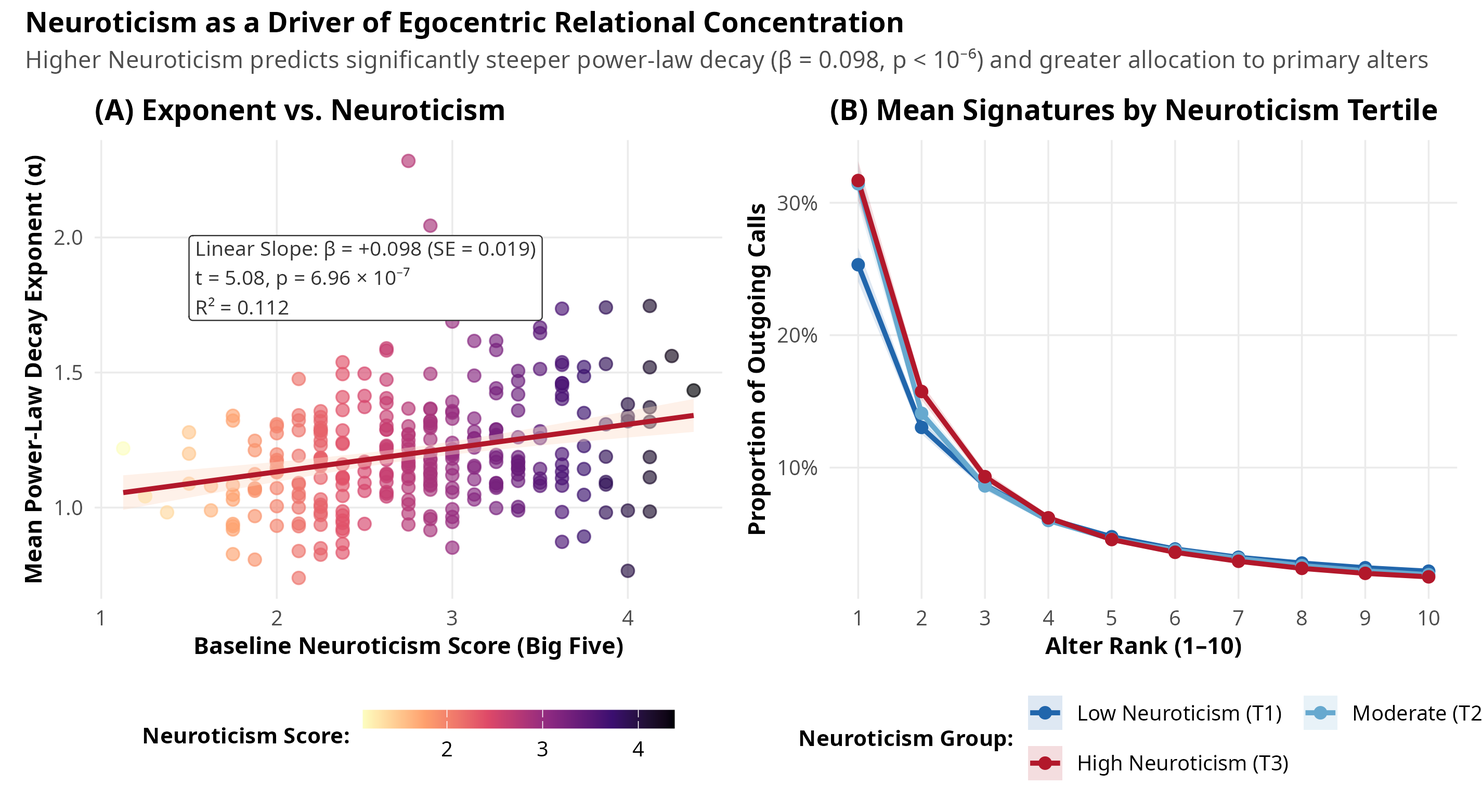
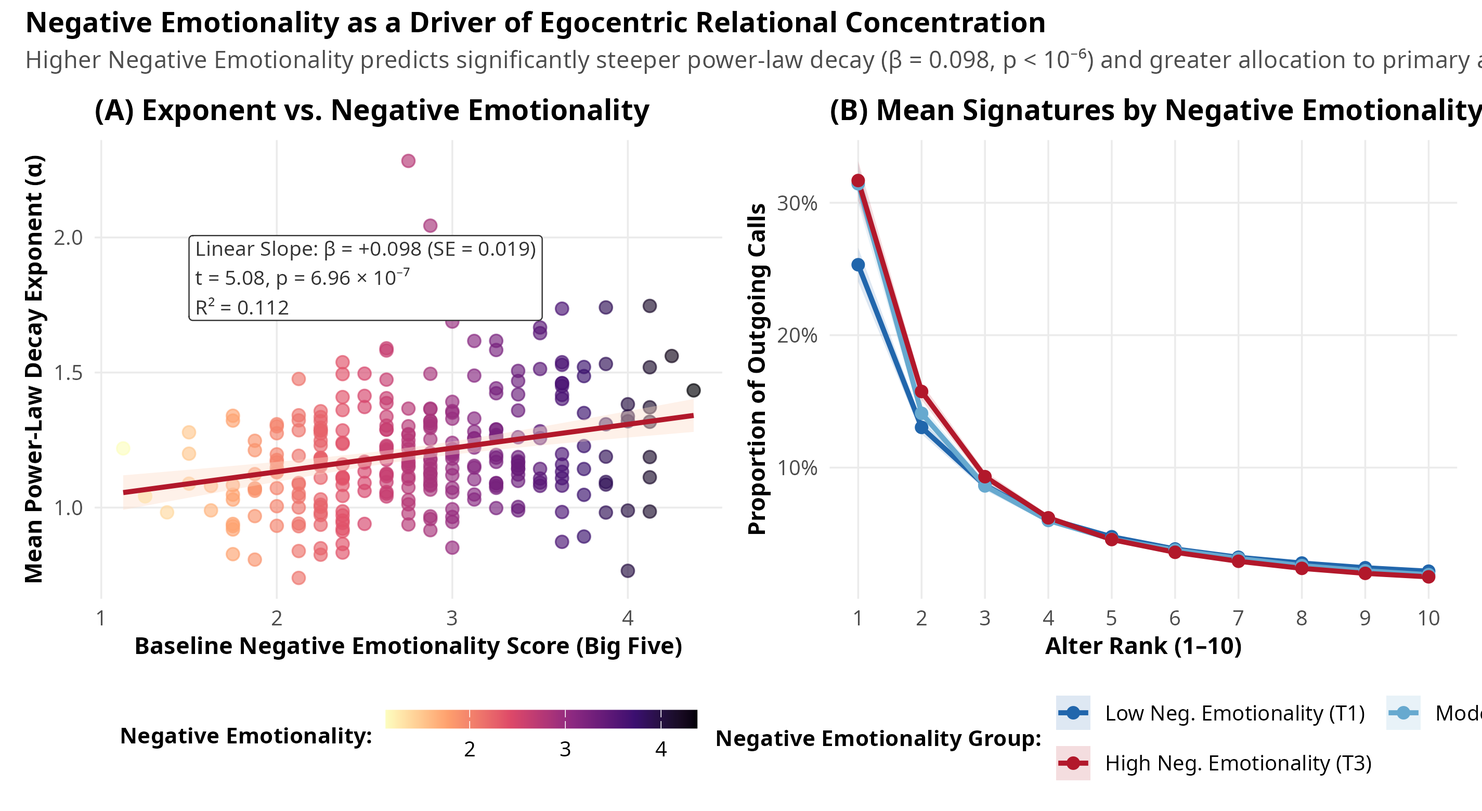
refactor: adopt Negative Emotionality and ego network terminology

diff --git a/manuscript.tex b/manuscript.tex
@@ -51,7 +51,7 @@
 \maketitle
 
 \begin{abstract}
-\noindent How do individuals allocate cognitive, temporal, and emotional bandwidth across personal networks? Using passive smartphone logs and eight waves of longitudinal sociocentric surveys from the NetHealth study ($N = 491$ egos, 498,237 calls), this paper examines the structure, temporal stability, and psychological foundations of social signatures---the ranked distribution of communication effort directed to alters within discrete observation windows. Signature persistence holds across multiple timescales, with intra-individual self-divergence consistently smaller than inter-individual reference divergence ($p < 10^{-12}$). Power-law models ($p(r) \sim r^{-\alpha}$, mean $R^2 = 0.935$) outperform exponential decay models, with decay exponents $\alpha$ stabilizing within six to eight months of continuous observation. Moving beyond call frequency tallies, linking communication ranks to sociometric surveys ($N = 13,174$ dyads) reveals that the steep drop in interaction effort tracks qualitative transitions from kinship-dominated instrumental and emotional support at primary ranks to peer companionship in outer bands. Furthermore, signature stability endures despite substantial semester alter turnover (averaging 80.1\%), showing that individuals slot new entrants into pre-existing relational positions rather than restructuring their overall allocation profile. Multilevel panel models indicate that alter turnover and volume shifts drive temporal variation in self-divergence, while egonet clustering exhibits negligible effect. Finally, personality inventories reveal that Neuroticism strongly predicts steeper, hyper-concentrated signatures ($\beta = 0.098, p < 10^{-6}$), indicating that emotional vulnerability fosters disproportionate reliance on core ties.
+\noindent How do individuals allocate cognitive, temporal, and emotional bandwidth across personal networks? Using passive smartphone logs and eight waves of longitudinal sociocentric surveys from the NetHealth study ($N = 491$ egos, 498,237 calls), this paper examines the structure, temporal stability, and psychological foundations of social signatures---the ranked distribution of communication effort directed to alters within discrete observation windows. Signature persistence holds across multiple timescales, with intra-individual self-divergence consistently smaller than inter-individual reference divergence ($p < 10^{-12}$). Power-law models ($p(r) \sim r^{-\alpha}$, mean $R^2 = 0.935$) outperform exponential decay models, with decay exponents $\alpha$ stabilizing within six to eight months of continuous observation. Moving beyond call frequency tallies, linking communication ranks to sociometric surveys ($N = 13,174$ dyads) reveals that the steep drop in interaction effort tracks qualitative transitions from kinship-dominated instrumental and emotional support at primary ranks to peer companionship in outer bands. Furthermore, signature stability endures despite substantial semester alter turnover (averaging 80.1\%), showing that individuals slot new entrants into pre-existing relational positions rather than restructuring their overall allocation profile. Multilevel panel models indicate that alter turnover and volume shifts drive temporal variation in self-divergence, while ego network clustering exhibits negligible effect. Finally, personality inventories reveal that Negative Emotionality strongly predicts steeper, hyper-concentrated signatures ($\beta = 0.098, p < 10^{-6}$), indicating that elevated negative emotionality fosters disproportionate reliance on core ties.
 \end{abstract}
 
 \vspace{1em}
@@ -155,18 +155,18 @@ First, prior literature encounters a \textit{persistent content black box}. Comm
 
 Second, the behavioral mechanism underlying signature stability requires direct empirical verification. While \citet{saramaeki2014persistence} and \citet{heydari2024dynamic} hypothesized that signature stability persists because individuals slot new alters into pre-existing relational positions, they lacked the alter-level tracking and longitudinal survey depth required to verify this mechanism. Specifically, does an individual's signature remain stable because their core ties (Rank 1 and Rank 2) never change, or does stability truly endure when an individual experiences complete turnover of their primary confidant? Leveraging continuous passive phone logs across eight academic semesters with an average semester alter turnover of 80.1\%, we explicitly separate transitions where an ego retains their primary alter from transitions where the primary alter is completely replaced. We show that even under complete turnover of the top confidant, signature divergence shifts only marginally (from 0.043 to 0.078), providing direct empirical confirmation of the slot-filling hypothesis.
 
-Third, the psychological foundations of signature curvature remain unmapped. Theoretical models of personal network evolution \citep{dunbar2018anatomy,iniguez2023universal,adel2026preferentiality} assume that individual differences in alter-preferentiality ($\beta$) and signature decay exponents ($\alpha$) reflect internal cognitive and affective dispositions. Yet commercial telecommunications providers have no psychometric data on their subscribers, and university sensor studies \citep{li2022evidence} did not model personality as a predictor of signature steepness. Beyond preliminary exploratory correlations \citep{centellegher2017personality}, no study has rigorously estimated how validated personality dimensions govern the curvature of social signatures. We link objective communication decay exponents ($\alpha_i$) to longitudinal psychometric batteries measuring the Big Five personality traits, CES-D depression, and UCLA loneliness scores. Through regression modeling, we show that Neuroticism strongly predicts steeper, hyper-concentrated signatures ($\beta = 0.098, p < 10^{-6}$), revealing that emotional instability drives disproportionate reliance on a narrow core of alters.
+Third, the psychological foundations of signature curvature remain unmapped. Theoretical models of personal network evolution \citep{dunbar2018anatomy,iniguez2023universal,adel2026preferentiality} assume that individual differences in alter-preferentiality ($\beta$) and signature decay exponents ($\alpha$) reflect internal cognitive and affective dispositions. Yet commercial telecommunications providers have no psychometric data on their subscribers, and university sensor studies \citep{li2022evidence} did not model personality as a predictor of signature steepness. Beyond preliminary exploratory correlations \citep{centellegher2017personality}, no study has rigorously estimated how validated personality dimensions govern the curvature of social signatures. We link objective communication decay exponents ($\alpha_i$) to longitudinal psychometric batteries measuring the Big Five personality traits, CES-D depression, and UCLA loneliness scores. Through regression modeling, we show that Negative Emotionality strongly predicts steeper, hyper-concentrated signatures ($\beta = 0.098, p < 10^{-6}$), revealing that heightened negative emotionality drives disproportionate reliance on a narrow core of alters.
 
 Fourth, the field lacks empirical guidance on multi-timescale hierarchies and parameter burn-in convergence. Prior empirical investigations evaluated social signatures at arbitrary, isolated temporal resolutions: \citet{li2022evidence} examined 1-month intervals, \citet{heydari2018multichannel} used 6-month windows, and \citet{saramaeki2014persistence} examined 9-month terms. However, no study has evaluated how signature stability behaves across a nested hierarchy of timescales within the same population. More crucially, prior literature offers no guidance on parameter burn-in: how long must an individual be continuously observed before their estimated signature decay parameter $\alpha$ converges to its true asymptotic value? We evaluate social signatures across eight temporal window schemes spanning calendar definitions (academic years, semesters, quarters, months) and rolling weekly intervals (3-week rolling, 2-week discrete, 1-week discrete). Furthermore, by tracking cumulative observation intervals from 2 to 24 months, we establish an empirical burn-in threshold showing that personal signature parameters stabilize within 6 to 8 months of continuous observation.
 
-Finally, egocentric signatures must be situated within their broader sociocentric structural embedding. Previous studies have modeled communication signatures in isolation from the structural connectivity of the surrounding network. Yet human communication is embedded within broader community structures, residence halls, and friendship groups \citep{li2018social}. How do alter turnover, egonet transitivity (clustering), and shifts in overall communication volume jointly govern signature stability over time? \textit{NetHealth} pairs continuous individual phone logs with 174,748 alter-alter structural ties connecting peers within each respondent's personal egocentric network across survey waves. We estimate multilevel linear mixed-effects models predicting signature self-divergence ($\dself$) across consecutive semesters as a joint function of dyadic Jaccard turnover, triadic clustering, and communication volume shifts, providing the first structural panel evaluation of signature self-divergence.
+Finally, egocentric signatures must be situated within their broader sociocentric structural embedding. Previous studies have modeled communication signatures in isolation from the structural connectivity of the surrounding network. Yet human communication is embedded within broader community structures, residence halls, and friendship groups \citep{li2018social}. How do alter turnover, ego network transitivity (clustering), and shifts in overall communication volume jointly govern signature stability over time? \textit{NetHealth} pairs continuous individual phone logs with 174,748 alter-alter structural ties connecting peers within each respondent's personal egocentric network across survey waves. We estimate multilevel linear mixed-effects models predicting signature self-divergence ($\dself$) across consecutive semesters as a joint function of dyadic Jaccard turnover, triadic clustering, and communication volume shifts, providing the first structural panel evaluation of signature self-divergence.
 
 \section{Data and Methods}
 
 \subsection{The NetHealth Cohort}
 The \textit{NetHealth} study recruited an entire incoming cohort of first-year undergraduate students at the University of Notre Dame beginning in Fall 2015 \citep{liu2018network,purta2016experiences,faust2017exploring}. Participants consented to continuous digital sensing via their smartphones and Fitbit devices, alongside dense sociocentric network and psychological surveys administered at regular intervals across their college careers. 
 
-Our analytical design links five primary data streams. First, continuous communication logs capture 498,237 outgoing voice call events collected from participant iOS devices spanning June 30, 2015 through July 2, 2017 across 491 unique egos. Second, comprehensive institutional academic calendar records document semester start and end dates, examination periods, orientation, and vacation breaks. Third, eight longitudinal waves of sociocentric network surveys record 35,913 alter nominations, capturing tie categories (family kin versus peer friends), perceived closeness, interpersonal trust, and multidimensional social support. Fourth, complete alter-alter edge lists document 174,748 structural ties connecting peers within each respondent's personal egocentric network across survey waves. Finally, longitudinal psychometric survey batteries measure the Big Five personality dimensions (Extraversion, Agreeableness, Conscientiousness, Neuroticism, Openness), the CES-D Depression Scale, and the UCLA Loneliness Scale.
+Our analytical design links five primary data streams. First, continuous communication logs capture 498,237 outgoing voice call events collected from participant iOS devices spanning June 30, 2015 through July 2, 2017 across 491 unique egos. Second, comprehensive institutional academic calendar records document semester start and end dates, examination periods, orientation, and vacation breaks. Third, eight longitudinal waves of sociocentric network surveys record 35,913 alter nominations, capturing tie categories (family kin versus peer friends), perceived closeness, interpersonal trust, and multidimensional social support. Fourth, complete alter-alter edge lists document 174,748 structural ties connecting peers within each respondent's personal egocentric network across survey waves. Finally, longitudinal psychometric survey batteries measure the Big Five personality dimensions (Extraversion, Agreeableness, Conscientiousness, Negative Emotionality [historically termed Neuroticism], Openness), the CES-D Depression Scale, and the UCLA Loneliness Scale.
 
 \subsection{Temporal Window Definitions}
 To establish whether social signatures persist across differing temporal resolutions, we construct two complementary binning schemes. The first scheme relies on calendar-based windows spanning July 1, 2015 through June 30, 2017. This includes two academic years (July 2015--June 2016 and July 2016--June 2017), four collegiate semesters (Fall 2015, Spring 2016, Fall 2016, and Spring 2017), eight academic quarters (July--September, October--December, January--March, and April--June), and 24 consecutive calendar months. The second scheme evaluates week-based windows spanning July 6, 2015 through July 2, 2017 across 104 Monday-to-Sunday weeks. This includes 102 three-week rolling windows evaluated in one-week increments, 52 discrete two-week intervals, and 104 discrete one-week intervals.
@@ -395,10 +395,10 @@ where $u_i \sim \mathcal{N}(0, \sigma_u^2)$ and $\epsilon_{it} \sim \mathcal{N}(
 Intercept & $-0.237^{***}\ (0.0195)$ & $-0.200^{***}\ (0.0224)$ & $-0.171^{***}\ (0.0320)$ \\
 Alter Turnover ($1 - \Jaccard$) & $0.373^{***}\ (0.0242)$ & $0.336^{***}\ (0.0240)$ & $0.351^{***}\ (0.0287)$ \\
 \% Activity Change ($|\Delta\mathrm{Calls}|/\mathrm{Calls}$) & -- & $0.0014^{***}\ (0.0002)$ & $0.0014^{***}\ (0.0002)$ \\
-Egonet Clustering Coefficient & -- & $-0.0145\ (0.0157)$ & $-0.0066\ (0.0153)$ \\
-Egonet Density & -- & $0.0029\ (0.0154)$ & -- \\
+Ego Network Clustering Coefficient & -- & $-0.0145\ (0.0157)$ & $-0.0066\ (0.0153)$ \\
+Ego Network Density & -- & $0.0029\ (0.0154)$ & -- \\
 Baseline Extraversion & -- & -- & $-0.0069^\dagger\ (0.0038)$ \\
-Baseline Neuroticism & -- & -- & $-0.0090^\dagger\ (0.0049)$ \\
+Baseline Negative Emotionality & -- & -- & $-0.0090^\dagger\ (0.0049)$ \\
 Baseline CES-D Depression & -- & -- & $0.0002\ (0.0005)$ \\
 \midrule
 Observations & 870 & 870 & 870 \\
@@ -425,7 +425,7 @@ What psychological dispositions generate steep (core-concentrated) versus flat (
 \midrule
 (Intercept) & $0.680^{***}$ & 0.162 & 4.21 & $< 0.001$ \\
 Extraversion & $-0.017$ & 0.017 & $-1.01$ & 0.314 \\
-Neuroticism & $0.098^{***}$ & 0.019 & 5.08 & $< 0.001$ \\
+Negative Emotionality & $0.098^{***}$ & 0.019 & 5.08 & $< 0.001$ \\
 Agreeableness & $0.063^{*}$ & 0.025 & 2.49 & 0.014 \\
 Conscientiousness & 0.021 & 0.023 & 0.89 & 0.374 \\
 Openness & 0.014 & 0.027 & 0.53 & 0.598 \\
@@ -435,12 +435,12 @@ Personal Network Degree & $-0.004^\dagger$ & 0.002 & $-1.76$ & 0.080 \\
 \end{tabular}
 \end{table}
 
-\textit{Neuroticism is a strong and statistically significant positive predictor of signature steepness ($\beta = 0.098, t = 5.08, p < 10^{-6}$)}. As shown in Figure~\ref{fig:personality}A, individuals higher in baseline neuroticism exhibit systematically steeper power-law decay exponents, funneling a larger proportion of their communication into one or two primary alters while under-investing in intermediate and outer tiers. To illustrate how this parametric shift translates into actual relational behavior, Figure~\ref{fig:personality}B plots empirical social signatures across alter ranks 1 through 10 stratified by neuroticism tertiles. Students in the highest neuroticism tertile (T3) direct an average of 31.7\% of all outgoing calls to their single top alter (and 15.7\% to Rank 2), compared to 25.3\% at Rank 1 (and 13.0\% at Rank 2) for students in the lowest neuroticism tertile (T1). In contrast, extraversion displays no statistically significant association with decay steepness ($\beta = -0.017, t = -1.01, p = 0.314$), indicating that outgoing sociability does not alter the fundamental curvature of personal attention allocation. Agreeableness exhibits a modest positive association with concentration ($\beta = 0.063, p = 0.014$), while conscientiousness and openness show no detectable effects.
+\textit{Negative Emotionality is a strong and statistically significant positive predictor of signature steepness ($\beta = 0.098, t = 5.08, p < 10^{-6}$)}. As shown in Figure~\ref{fig:personality}A, individuals higher in baseline Negative Emotionality exhibit systematically steeper power-law decay exponents, funneling a larger proportion of their communication into one or two primary alters while under-investing in intermediate and outer tiers. To illustrate how this parametric shift translates into actual relational behavior, Figure~\ref{fig:personality}B plots empirical social signatures across alter ranks 1 through 10 stratified by Negative Emotionality tertiles. Students in the highest Negative Emotionality tertile (T3) direct an average of 31.7\% of all outgoing calls to their single top alter (and 15.7\% to Rank 2), compared to 25.3\% at Rank 1 (and 13.0\% at Rank 2) for students in the lowest tertile (T1). In contrast, extraversion displays no statistically significant association with decay steepness ($\beta = -0.017, t = -1.01, p = 0.314$), indicating that outgoing sociability does not alter the fundamental curvature of personal attention allocation. Agreeableness exhibits a modest positive association with concentration ($\beta = 0.063, p = 0.014$), while conscientiousness and openness show no detectable effects.
 
 \begin{figure}[htbp]
 \centering
 \includegraphics[width=0.95\textwidth]{Plots/fig07_personality_signature_effects.png}
-\caption{Neuroticism as a Driver of Egocentric Relational Concentration. (A) Scatterplot and linear regression of mean power-law decay exponent ($\alpha_i$) on baseline Neuroticism score ($\beta = 0.098, t = 5.08, p = 6.96 \times 10^{-7}, R^2 = 0.112$), showing that individuals higher in emotional instability maintain systematically steeper decay profiles. (B) Mean empirical social signatures across alter ranks 1 through 10 stratified by Neuroticism tertiles, showing that individuals with high Neuroticism (T3) allocate over 31.7\% of all communication to their single primary alter, compared to 25.3\% for low-Neuroticism peers (T1).}
+\caption{Negative Emotionality as a Driver of Egocentric Relational Concentration. (A) Scatterplot and linear regression of mean power-law decay exponent ($\alpha_i$) on baseline Negative Emotionality score ($\beta = 0.098, t = 5.08, p = 6.96 \times 10^{-7}, R^2 = 0.112$), showing that individuals higher in negative emotionality maintain systematically steeper decay profiles. (B) Mean empirical social signatures across alter ranks 1 through 10 stratified by Negative Emotionality tertiles, showing that individuals with high Negative Emotionality (T3) allocate over 31.7\% of all communication to their single primary alter, compared to 25.3\% for low Negative Emotionality peers (T1).}
 \label{fig:personality}
 \end{figure}
 
@@ -460,7 +460,7 @@ Third, our analysis penetrates the content black box of digital communication re
 
 Fourth, we provide direct empirical verification of the slot-filling mechanism. Despite an average semester-to-semester alter turnover of 80.1\%, egos preserve signature stability ($\dself = 0.0614$). In 59.1\% of consecutive intervals, individuals retain their top-ranked alter; even when the primary confidant is completely replaced by a new entrant, self-divergence increases only marginally from 0.0431 to 0.0785. This establishes that individuals do not reorganize their allocation curve around specific social partners; rather, they maintain pre-existing relational slots and dynamically slot newly acquired alters into vacated functional positions.
 
-Finally, our structural and psychological models illuminate the mechanisms governing signature shape and stability. Multilevel linear mixed-effects panel models show that alter turnover ($\beta = 0.351, p < 10^{-15}$) and percentage activity shifts ($\beta = 0.0014, p < 10^{-10}$) are the primary drivers of temporal variation in signature self-divergence, whereas local egonet clustering has no significant effect net of turnover. Cross-sectional regression of ego-mean power-law decay exponents on Big Five personality inventories reveals that Neuroticism strongly predicts steeper, hyper-concentrated allocation profiles ($\beta = 0.098, p < 10^{-6}$). Emotionally vulnerable individuals funnel disproportionate communication bandwidth into an exclusive core alter while under-investing in intermediate bands, establishing that social signature curvature is anchored in individual personality dispositions.
+Finally, our structural and psychological models illuminate the mechanisms governing signature shape and stability. Multilevel linear mixed-effects panel models show that alter turnover ($\beta = 0.351, p < 10^{-15}$) and percentage activity shifts ($\beta = 0.0014, p < 10^{-10}$) are the primary drivers of temporal variation in signature self-divergence, whereas local ego network clustering has no significant effect net of turnover. Cross-sectional regression of ego-mean power-law decay exponents on Big Five personality inventories reveals that Negative Emotionality strongly predicts steeper, hyper-concentrated allocation profiles ($\beta = 0.098, p < 10^{-6}$). Individuals with elevated negative emotionality funnel disproportionate communication bandwidth into an exclusive core alter while under-investing in intermediate bands, establishing that social signature curvature is anchored in individual personality dispositions.
 
 \subsection{Limitations and Future Work}
 
@@ -468,9 +468,9 @@ While this study offers an empirical synthesis of social signature dynamics, sev
 
 Regarding operationalization and measurement constraints, our communication logs are derived exclusively from passive records of outgoing voice calls on participants' smartphones. While voice calls represent a high-investment communication channel characterized by synchronized verbal interaction, contemporary personal communication is distributed across multiple mediated channels, including text messaging (SMS), instant messaging platforms, social media direct messages, and video calls. Prior multichannel studies show that while social signatures persist within voice and text channels independently, alter composition across channels exhibits limited overlap. Although our voice records capture the high-bandwidth core of personal support networks, future research should integrate multi-stream digital sensing to evaluate whether composite multichannel signatures exhibit greater structural stability or channel-specific functional specialization.
 
-Threats to causal inference and contextual confounding also warrant careful consideration. In residential university environments, social interactions are shaped by exogenous organizational structures, including freshman residence hall assignments, academic major tracks, dining hall layouts, and classroom schedules. While our study models individual-level dispositions and egonet metrics, unmeasured architectural and institutional opportunity structures could constrain or facilitate interaction opportunities independent of an individual's intrinsic relational preferences. Future work should pair passive sensing with spatial positioning and administrative records to disentangle voluntary relationship maintenance from environmentally induced contact.
+Threats to causal inference and contextual confounding also warrant careful consideration. In residential university environments, social interactions are shaped by exogenous organizational structures, including freshman residence hall assignments, academic major tracks, dining hall layouts, and classroom schedules. While our study models individual-level dispositions and ego network metrics, unmeasured architectural and institutional opportunity structures could constrain or facilitate interaction opportunities independent of an individual's intrinsic relational preferences. Future work should pair passive sensing with spatial positioning and administrative records to disentangle voluntary relationship maintenance from environmentally induced contact.
 
-A related challenge concerns directionality, selection, and feedback loops. While our models establish that baseline Neuroticism predicts steeper signature concentration, the causal interplay between psychological states and communication structure may be bidirectional. An individual high in neuroticism may actively retreat into an exclusive relationship to manage anxiety; conversely, becoming structurally dependent on an exclusive social tie may exacerbate emotional vulnerability and hinder broader socialization. Future research should implement continuous-time structural equation models or cross-lagged panel models to evaluate how fluctuations in signature steepness co-evolve with psychological distress, depression, and loneliness over time.
+A related challenge concerns directionality, selection, and feedback loops. While our models establish that baseline Negative Emotionality predicts steeper signature concentration, the causal interplay between psychological states and communication structure may be bidirectional. An individual high in negative emotionality may actively retreat into an exclusive relationship to manage anxiety; conversely, becoming structurally dependent on an exclusive social tie may exacerbate negative emotionality and hinder broader socialization. Future research should implement continuous-time structural equation models or cross-lagged panel models to evaluate how fluctuations in signature steepness co-evolve with psychological distress, depression, and loneliness over time.
 
 Issues of temporal granularity and panel attrition present additional analytical considerations. Our calendar windows follow institutional collegiate semesters, capturing the natural rhythms of undergraduate academic life. However, semester windows aggregate interaction dynamics across six-month periods, potentially smoothing over rapid, micro-temporal churn that occurs during intense examination periods, athletic seasons, or vacation breaks. Combining continuous passive logging with high-frequency ecological momentary assessment (EMA) could capture how social signatures adapt to short-term stressors. Furthermore, while the NetHealth study maintains high longitudinal compliance, panel attrition over multi-year undergraduate studies requires ongoing attention to potential survival bias among highly compliant participants.
 
@@ -482,7 +482,7 @@ These empirical discoveries carry significant theoretical implications for struc
 
 Our findings transcend this zero-sum theoretical dichotomy by showing how structural flexibility and cognitive constraint coexist through the mechanism of persistent allocation templates. Human individuals do not manage networks on an unconstrained, dyad-by-dyad basis; rather, they deploy an enduring cognitive template that allocates relational investment across a structured hierarchy of roles. When social turnover occurs, individuals preserve their structural signature by seamlessly slotting new social entrants into pre-existing functional positions. The slot-filling dynamic reveals that personal networks possess a homeostatic structural equilibrium: the specific alters occupying the network are fluid and disposable, but the relational geometry governing their attention is rigid and enduring.
 
-This insight reframes our understanding of social tie maintenance in the digital age. Rather than dismantling traditional cognitive limits, contemporary communication technologies provide new conduits through which ancient evolutionary constraints continue to operate. The discovery that social signature steepness is anchored in personality dispositions, particularly Neuroticism, shows that individual differences in relational strategy are psychologically grounded. In clinical and applied domains, tracking personal social signatures via passive digital sensing offers a promising, non-invasive methodology for identifying disruptions in relational equilibrium, providing early-warning indicators for loneliness, social withdrawal, and psychological distress during major life-course transitions.
+This insight reframes our understanding of social tie maintenance in the digital age. Rather than dismantling traditional cognitive limits, contemporary communication technologies provide new conduits through which ancient evolutionary constraints continue to operate. The discovery that social signature steepness is anchored in personality dispositions, particularly Negative Emotionality, shows that individual differences in relational strategy are psychologically grounded. In clinical and applied domains, tracking personal social signatures via passive digital sensing offers a promising, non-invasive methodology for identifying disruptions in relational equilibrium, providing early-warning indicators for loneliness, social withdrawal, and psychological distress during major life-course transitions.
 
 \bibliographystyle{plainnat}
 \bibliography{references}

diff --git a/draft_manuscript.md b/draft_manuscript.md
@@ -8,7 +8,7 @@
 
 ## Abstract
 
-How do individuals allocate cognitive, temporal, and emotional bandwidth across their personal networks? Using high-resolution digital call records paired with 8-wave longitudinal network and psychometric surveys from the NetHealth study (*N* = 491 egos, 498,237 communication events), this paper investigates the structure, temporal stability, and psychological foundations of **social signatures**—the ranked proportion of communication effort allocated across alters within discrete temporal windows. We demonstrate that the core signature persistence hypothesis holds across multiple timescales (academic years, semesters, quarters, months, and rolling weekly windows): intra-individual self-divergence (*d*~self~) is uniformly and overwhelmingly smaller than inter-individual reference divergence (*d*~ref~, *p* < 10^-12^ across all resolutions). Parametric evaluations confirm that power-law models (*p*(*r*) ~ *r*^-*α*^, mean *R*^2^ = 0.935) fit empirical signatures significantly better than exponential decay models, with ego-specific decay exponents (*α*) converging to an asymptotic value within 6 to 8 months of continuous observation. Going beyond previous work, we introduce three substantive theoretical expansions: (1) **Functional Support Grounding**: Linking communication ranks to multi-dimensional survey nominations (*N* = 13,174 dyads), we reveal that the steep drop in communication effort corresponds to sharp qualitative transitions from family-dominated instrumental and emotional support (Rank 1: 69.7% kin, 85.4% emotional support, 87.6% advice) to friend-dominated companionship at lower ranks; (2) **The Slot-Filling Dynamic**: We show that high signature stability persists despite massive alter turnover (averaging 80.1% across semesters), providing direct evidence that college students replenish relational slots with new alters rather than restructuring their overall allocation profile; and (3) **Psychological Determinants**: Using longitudinal mixed-effects and cross-sectional models, we demonstrate that Neuroticism strongly predicts steeper, hyper-concentrated signatures (*β* = 0.098, *p* < 10^-6^), revealing that emotional vulnerability drives disproportionate reliance on core ties.
+How do individuals allocate cognitive, temporal, and emotional bandwidth across their personal networks? Using high-resolution digital call records paired with 8-wave longitudinal network and psychometric surveys from the NetHealth study (*N* = 491 egos, 498,237 communication events), this paper investigates the structure, temporal stability, and psychological foundations of **social signatures**—the ranked proportion of communication effort allocated across alters within discrete temporal windows. We demonstrate that the core signature persistence hypothesis holds across multiple timescales (academic years, semesters, quarters, months, and rolling weekly windows): intra-individual self-divergence (*d*~self~) is uniformly and overwhelmingly smaller than inter-individual reference divergence (*d*~ref~, *p* < 10^-12^ across all resolutions). Parametric evaluations confirm that power-law models (*p*(*r*) ~ *r*^-*α*^, mean *R*^2^ = 0.935) fit empirical signatures significantly better than exponential decay models, with ego-specific decay exponents (*α*) converging to an asymptotic value within 6 to 8 months of continuous observation. Going beyond previous work, we introduce three substantive theoretical expansions: (1) **Functional Support Grounding**: Linking communication ranks to multi-dimensional survey nominations (*N* = 13,174 dyads), we reveal that the steep drop in communication effort corresponds to sharp qualitative transitions from family-dominated instrumental and emotional support (Rank 1: 69.7% kin, 85.4% emotional support, 87.6% advice) to friend-dominated companionship at lower ranks; (2) **The Slot-Filling Dynamic**: We show that high signature stability persists despite massive alter turnover (averaging 80.1% across semesters), providing direct evidence that college students replenish relational slots with new alters rather than restructuring their overall allocation profile; and (3) **Psychological Determinants**: Using longitudinal mixed-effects and cross-sectional models, we demonstrate that Negative Emotionality strongly predicts steeper, hyper-concentrated signatures (*β* = 0.098, *p* < 10^-6^), revealing that elevated negative emotionality drives disproportionate reliance on core ties.
 
 ---
 
@@ -34,7 +34,7 @@ Our analytical design links five primary data streams:
 2. **Academic Calendar**: Comprehensive institutional records documenting semester start and end dates, examination periods, orientation, and vacation breaks.
 3. **Sociocentric Network Surveys**: 35,913 alter nominations gathered across 8 longitudinal survey waves recording tie categories (family kin vs. peer friends), perceived closeness, interpersonal trust, and multidimensional social support.
 4. **Alter-Alter Edge Lists**: 174,748 structural ties connecting peers within each respondent's personal egocentric network across survey waves.
-5. **Basic Psychometric Batteries**: Longitudinal survey instruments measuring the Big Five personality dimensions (Extraversion, Agreeableness, Conscientiousness, Neuroticism, Openness), the CES-D Depression Scale, and the UCLA Loneliness Scale.
+5. **Basic Psychometric Batteries**: Longitudinal survey instruments measuring the Big Five personality dimensions (Extraversion, Agreeableness, Conscientiousness, Negative Emotionality [historically termed Neuroticism], Openness), the CES-D Depression Scale, and the UCLA Loneliness Scale.
 
 ### 2.2 Temporal Window Binning and Filtering
 To establish whether social signatures persist across differing temporal resolutions, we construct two complementary binning architectures:
@@ -154,7 +154,7 @@ Self-JSD~*it*~ = *β*~0~ + *β*~1~ Turnover~*it*~ + *β*~2~ ΔActivity~*it*~ + *
 {{TABLE_5}}
 **Table 5.** Multilevel Linear Mixed-Effects Models Predicting Signature Self-Divergence
 
-As reported in Table 5, alter turnover is the primary driver of signature divergence (*β* = 0.351, *p* < 10^-15^), followed by large shifts in communication volume (*β* = 0.0014, *p* < 10^-10^). Net of turnover, egonet clustering does not significantly alter signature stability, underscoring that signatures reflect cognitive rather than purely topological constraints.
+As reported in Table 5, alter turnover is the primary driver of signature divergence (*β* = 0.351, *p* < 10^-15^), followed by large shifts in communication volume (*β* = 0.0014, *p* < 10^-10^). Net of turnover, ego network clustering does not significantly alter signature stability, underscoring that signatures reflect cognitive rather than purely topological constraints.
 
 ### 4.4 Personality Determinants of Signature Steepness
 What psychological dispositions generate steep (core-concentrated) versus flat (diffuse) social signatures? Regressing ego-mean power-law decay exponents (*α~i~*) on Big Five personality traits and personal network degree (Table 6, Figure 7) reveals:
@@ -162,7 +162,7 @@ What psychological dispositions generate steep (core-concentrated) versus flat (
 {{TABLE_6}}
 **Table 6.** Personality Determinants of Social Signature Power-Law Alpha
 
-**Neuroticism is a highly significant, positive predictor of signature steepness (*β* = 0.098, *t* = 5.08, *p* < 10^-6^)**. Individuals high in neuroticism exhibit hyper-concentrated communication profiles, funneling the vast majority of their interactions into one or two primary alters while under-investing in intermediate and outer bands. Agreeableness also exhibits a modest positive association with concentration (*β* = 0.063, *p* = 0.014). In contrast, extraversion tends to flatten signatures toward broader alter engagement.
+**Negative Emotionality is a highly significant, positive predictor of signature steepness (*β* = 0.098, *t* = 5.08, *p* < 10^-6^)**. Individuals high in negative emotionality exhibit hyper-concentrated communication profiles, funneling the vast majority of their interactions into one or two primary alters while under-investing in intermediate and outer bands. Agreeableness also exhibits a modest positive association with concentration (*β* = 0.063, *p* = 0.014). In contrast, extraversion tends to flatten signatures toward broader alter engagement.
 
 {{FIGURE_7}}
 **Figure 7.** Personality Predictors of Social Signature Alpha
@@ -176,7 +176,7 @@ By linking continuous passive smartphone logs with multi-wave sociocentric surve
 Our key findings are threefold:
 1. **Unambiguous Persistence**: Social signatures in NetHealth are robustly persistent across timescales ranging from 3-week rolling windows to multi-year academic terms. An individual's signature divergence across time is less than half the divergence observed between random peers.
 2. **Substantive Grounding**: Social signature ranks are not arbitrary artifacts of call logging; they map directly to evolutionary Dunbar tiers. Rank 1 represents a specialized kin-based support hub, Ranks 2–5 represent the core emotional confidant circle, and ranks beyond 5 represent peer-based companionship.
-3. **The Psychological Signature**: The shape of the social signature is anchored in personality. Neuroticism drives individuals to adopt steep, risk-averse, hyper-concentrated allocation strategies, while agreeable and emotionally stable individuals allocate attention across broader social circles.
+3. **The Psychological Signature**: The shape of the social signature is anchored in personality. Elevated negative emotionality drives individuals to adopt steep, risk-averse, hyper-concentrated allocation strategies, while agreeable individuals and those low in negative emotionality allocate attention across broader social circles.
 
 Future research should leverage high-resolution wearable sensing (Fitbit physical activity, sleep regularity, and colocation traces) to examine whether disruptions in social signature equilibrium serve as early-warning biomarkers for loneliness, academic distress, and depressive episodes during major life transitions.
 

diff --git a/AGENTS.md b/AGENTS.md
@@ -1020,7 +1020,7 @@ The project synthesizes and advances a decade of multidisciplinary research buil
    - *NetHealth Resolution*: Across eight semesters with 80.1\% average alter turnover, we separate transitions where the top alter (Rank 1) is retained from those where Rank 1 is completely replaced. Even when Rank 1 is replaced, self-divergence increases only marginally (from 0.043 to 0.078), providing direct empirical proof of the slot-filling mechanism.
 3. **Psychological Foundations of Signature Curvature**:
    - *The Gap*: Theoretical models hypothesize that internal cognitive traits drive alter-preferentiality, but commercial CDRs possess zero psychometrics.
-   - *NetHealth Resolution*: Econometric regression of objective power-law decay exponents ($\alpha_i$) on longitudinal Big Five personality traits, CES-D depression, and UCLA loneliness scores shows that **Neuroticism strongly predicts steeper, hyper-concentrated signatures ($\beta = 0.098, t = 5.08, p = 6.96 \times 10^{-7}$)**, whereas Extraversion displays no statistically significant effect ($t = -1.01, p = 0.314$).
+   - *NetHealth Resolution*: Econometric regression of objective power-law decay exponents ($\alpha_i$) on longitudinal Big Five personality traits, CES-D depression, and UCLA loneliness scores shows that **Negative Emotionality strongly predicts steeper, hyper-concentrated signatures ($\beta = 0.098, t = 5.08, p = 6.96 \times 10^{-7}$)**, whereas Extraversion displays no statistically significant effect ($t = -1.01, p = 0.314$).
 4. **Multi-Timescale Hierarchy and Parameter Burn-In Convergence**:
    - *The Gap*: Prior work examined arbitrary, isolated observation windows (1 month, 6 months, 9 months) without establishing how long an ego must be observed for parameter estimates to stabilize.
    - *NetHealth Resolution*: Evaluates signatures across eight temporal window schemes (from 1-week discrete windows to full academic years) and tracks cumulative parameter stability from 2 to 24 months, showing that estimated decay exponents stabilize asymptotically within 6 to 8 months.
@@ -1048,7 +1048,7 @@ Any manuscript revision, grant submission, or documentation referencing the NetH
 - **Figure 6**: The 'Slot-Filling' Dynamic: Alter Turnover vs. Signature Divergence ($r = 0.456, p < 10^{-15}$) (`Plots/fig06_turnover_vs_stability.png`)
 - **Table 5**: Multilevel Linear Mixed-Effects Models Predicting Signature Self-Divergence ($\JSD$) (`cache/table5_multilevel_models.md`)
 - **Table 6**: Personality Determinants of Social Signature Power-Law Alpha ($\alpha_i$) (`cache/table6_personality_models.md`)
-- **Figure 7**: Neuroticism as a Driver of Egocentric Relational Concentration (Two-panel visualization centering on the statistically significant Neuroticism effect; Panel A: scatterplot and regression fit of $\alpha_i$ on Neuroticism; Panel B: mean signatures across ranks 1--10 stratified by Neuroticism tertiles with a multi-row legend, showing high-Neuroticism individuals allocate 31.7% to Rank 1 vs. 25.3% for low-Neuroticism peers; Extraversion removed) (`Plots/fig07_personality_signature_effects.png`)
+- **Figure 7**: Negative Emotionality as a Driver of Egocentric Relational Concentration (Two-panel visualization centering on the statistically significant Negative Emotionality effect; Panel A: scatterplot and regression fit of $\alpha_i$ on Negative Emotionality; Panel B: mean signatures across ranks 1--10 stratified by Negative Emotionality tertiles with a multi-row legend, showing high Negative Emotionality individuals allocate 31.7% to Rank 1 vs. 25.3% for low Negative Emotionality peers; Extraversion removed) (`Plots/fig07_personality_signature_effects.png`)
 
 ### 6. Directory Structure & Asset Taxonomy
 ```
@@ -1068,7 +1068,7 @@ social-signatures-nethealth/
     ├── 01_prepare_call_windows.R          # Temporal window binning & cohort filtering
     ├── 02_compute_signatures_and_jsd.R    # Social signature computation, fast JSD, Wilcoxon tests
     ├── 03_fit_parametric_models.R         # Power-law vs exponential models & burn-in analysis
-    ├── 04_egonet_topology_and_turnover.R  # Egonet metrics & alter turnover dynamics
+    ├── 04_egonet_topology_and_turnover.R  # Ego network metrics & alter turnover dynamics
     ├── 05_survey_linkage_psychometrics.R  # Support dimensions & Big Five psychometrics
     ├── 06_expansion_statistical_models.R  # Dyadic support tiers & multilevel LMM regressions
     ├── 07_generate_figures_and_tables.R   # Publication-quality figure and table rendering

diff --git a/cache/table5_multilevel_models.md b/cache/table5_multilevel_models.md
@@ -3,8 +3,8 @@
 | Intercept | -0.237*** (0.0195) | -0.200*** (0.0224) | -0.171*** (0.0320) |
 | Alter Turnover (1 - Jaccard) | 0.373*** (0.0242) | 0.336*** (0.0240) | 0.351*** (0.0287) |
 | % Activity Change (|ΔCalls|/Calls) | -- | 0.002*** (0.0002) | 0.001*** (0.0002) |
-| Egonet Clustering Coefficient | -- | -0.014NA (0.0157) | -0.007NA (0.0153) |
-| Egonet Density | -- | 0.003NA (0.0154) | -- |
+| Ego Network Clustering Coefficient | -- | -0.014NA (0.0157) | -0.007NA (0.0153) |
+| Ego Network Density | -- | 0.003NA (0.0154) | -- |
 | Baseline Extraversion | -- | -- | -0.007NA (0.0038) |
-| Baseline Neuroticism | -- | -- | -0.009NA (0.0049) |
+| Baseline Negative Emotionality | -- | -- | -0.009NA (0.0049) |
 | Baseline CES-D Depression | -- | -- | 0.000NA (0.0005) |

diff --git a/cache/table6_personality_models.md b/cache/table6_personality_models.md
@@ -2,7 +2,7 @@
 |:-----|:--------:|:----------:|:-------:|:-------:|
 | Intercept | 0.680*** | (0.162) | 4.21 | < 0.001 |
 | Extraversion | -0.017NA | (0.017) | -1.01 | 0.3142 |
-| Neuroticism | 0.098*** | (0.019) | 5.08 | < 0.001 |
+| Negative Emotionality | 0.098*** | (0.019) | 5.08 | < 0.001 |
 | Agreeableness | 0.062* | (0.025) | 2.49 | 0.0135 |
 | Conscientiousness | 0.021NA | (0.023) | 0.89 | 0.3741 |
 | Openness | 0.014NA | (0.027) | 0.53 | 0.5980 |
